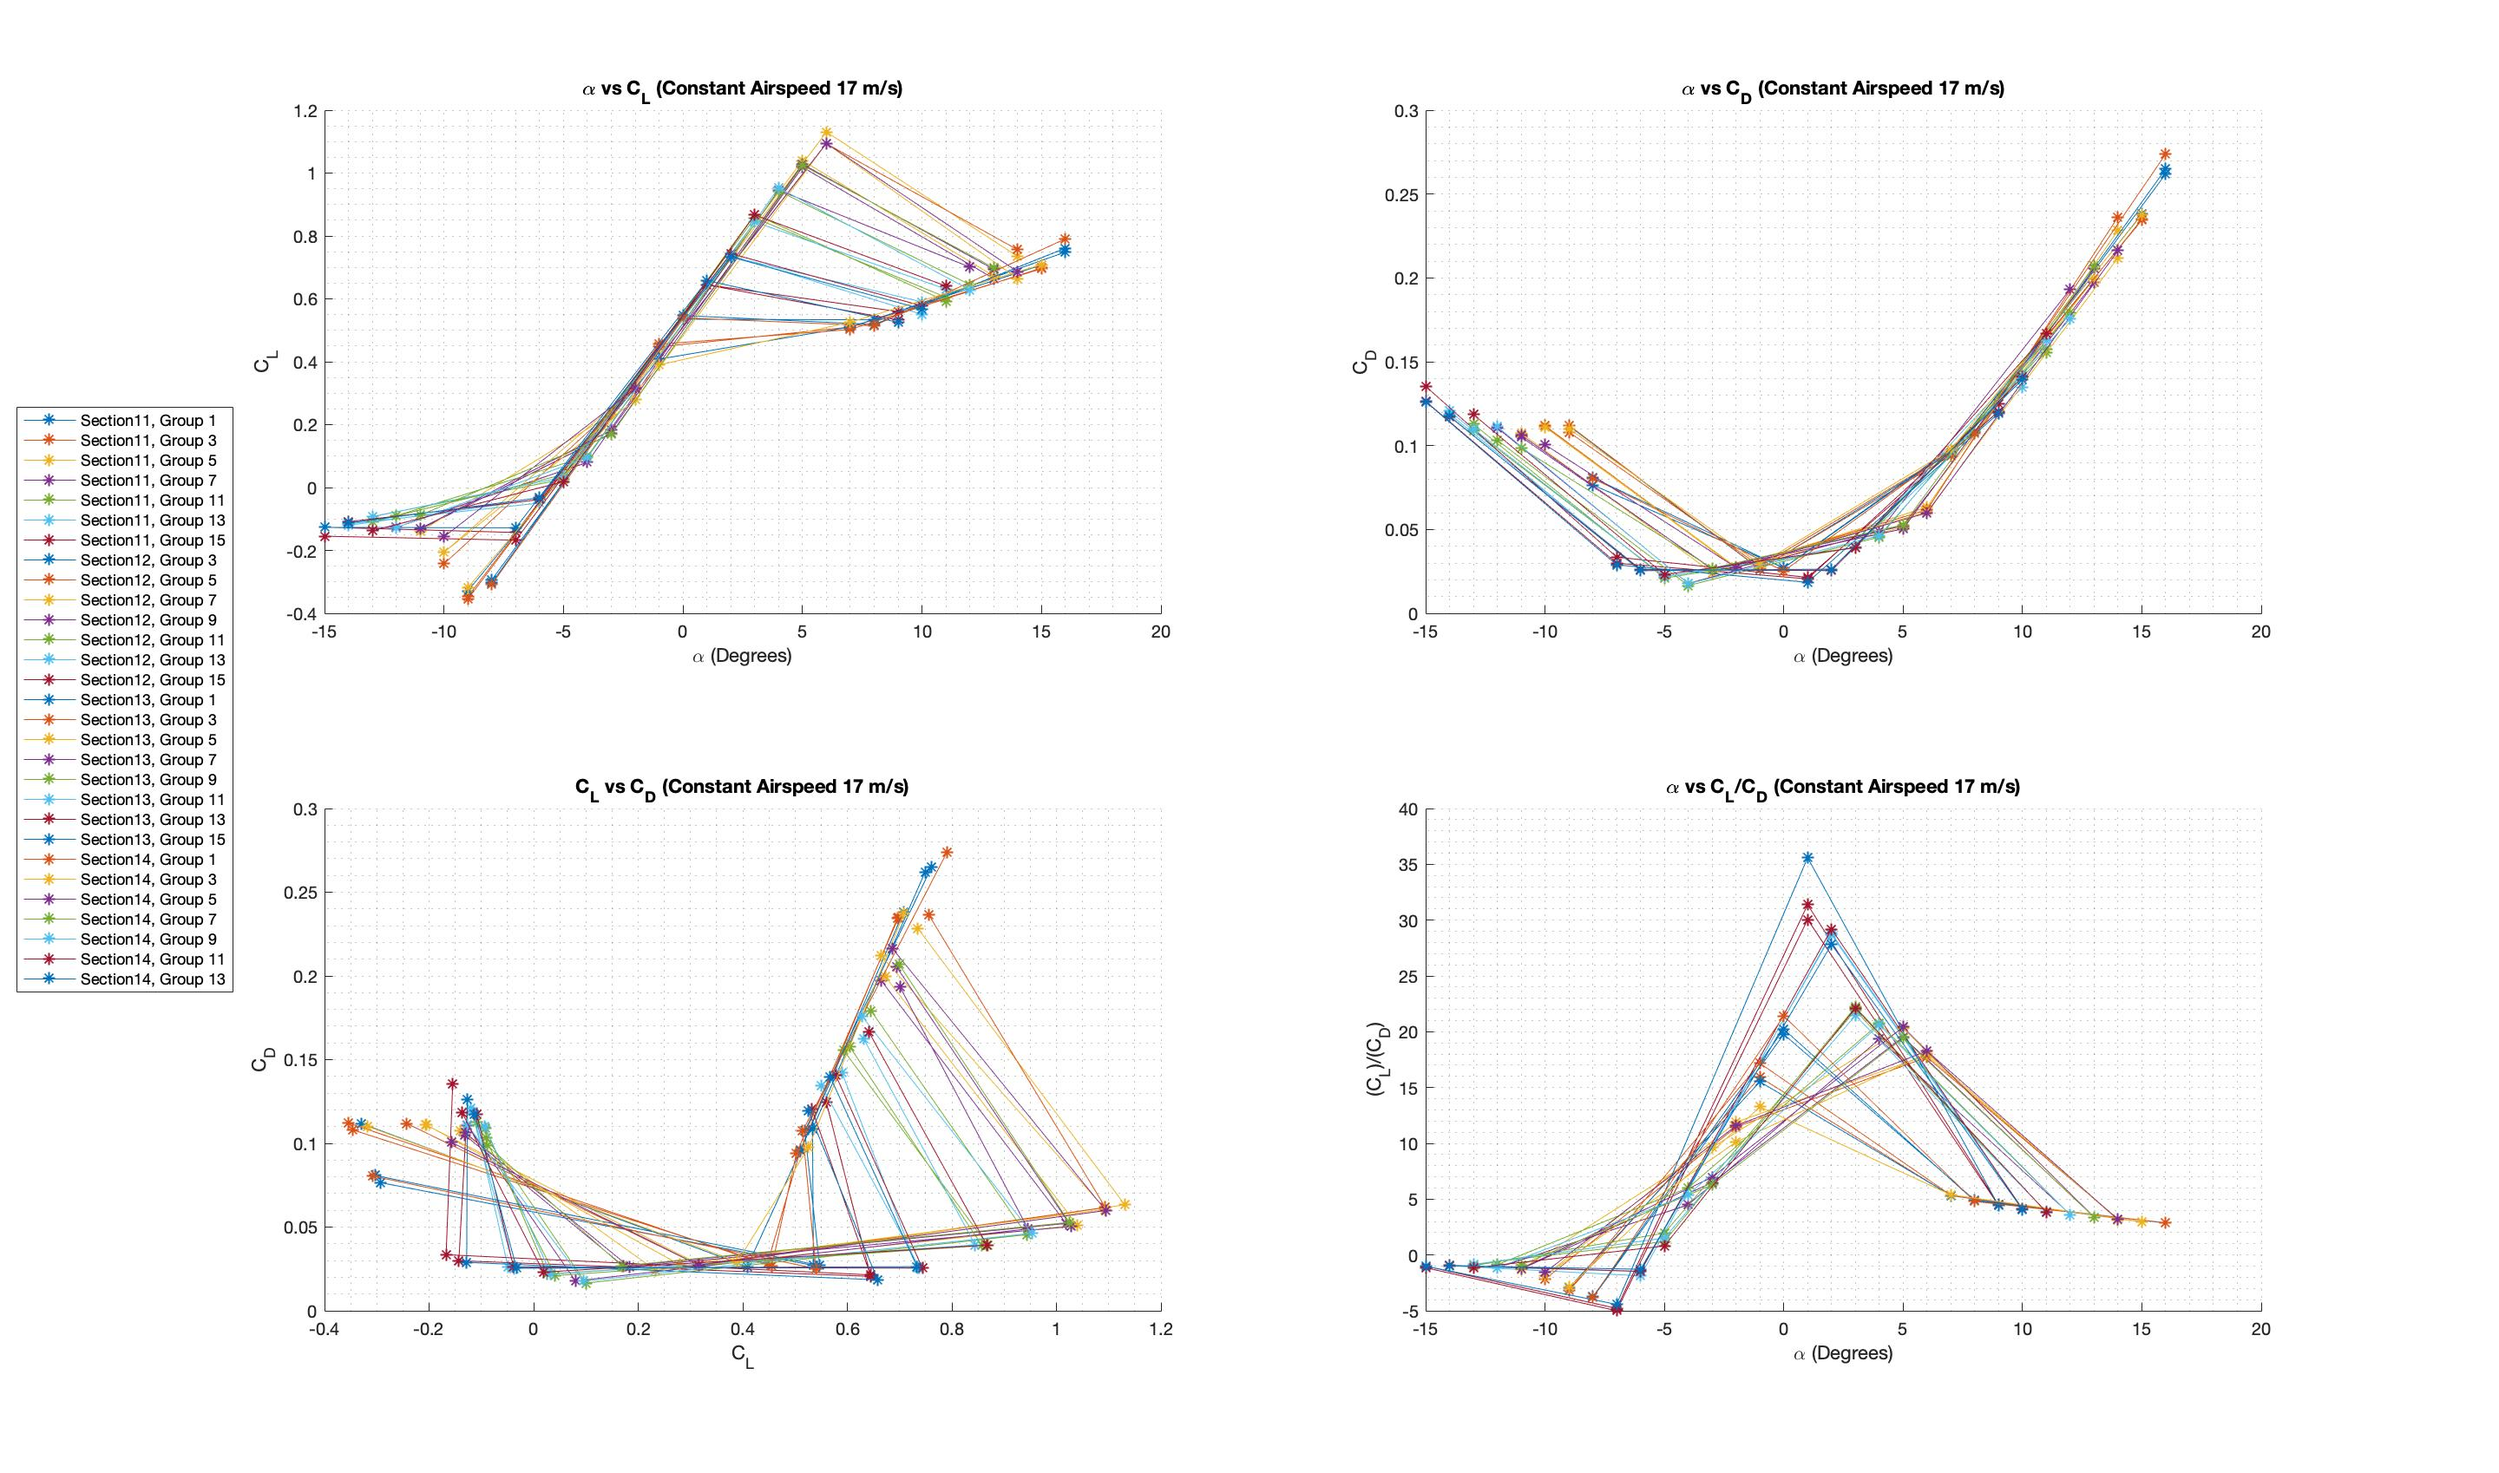
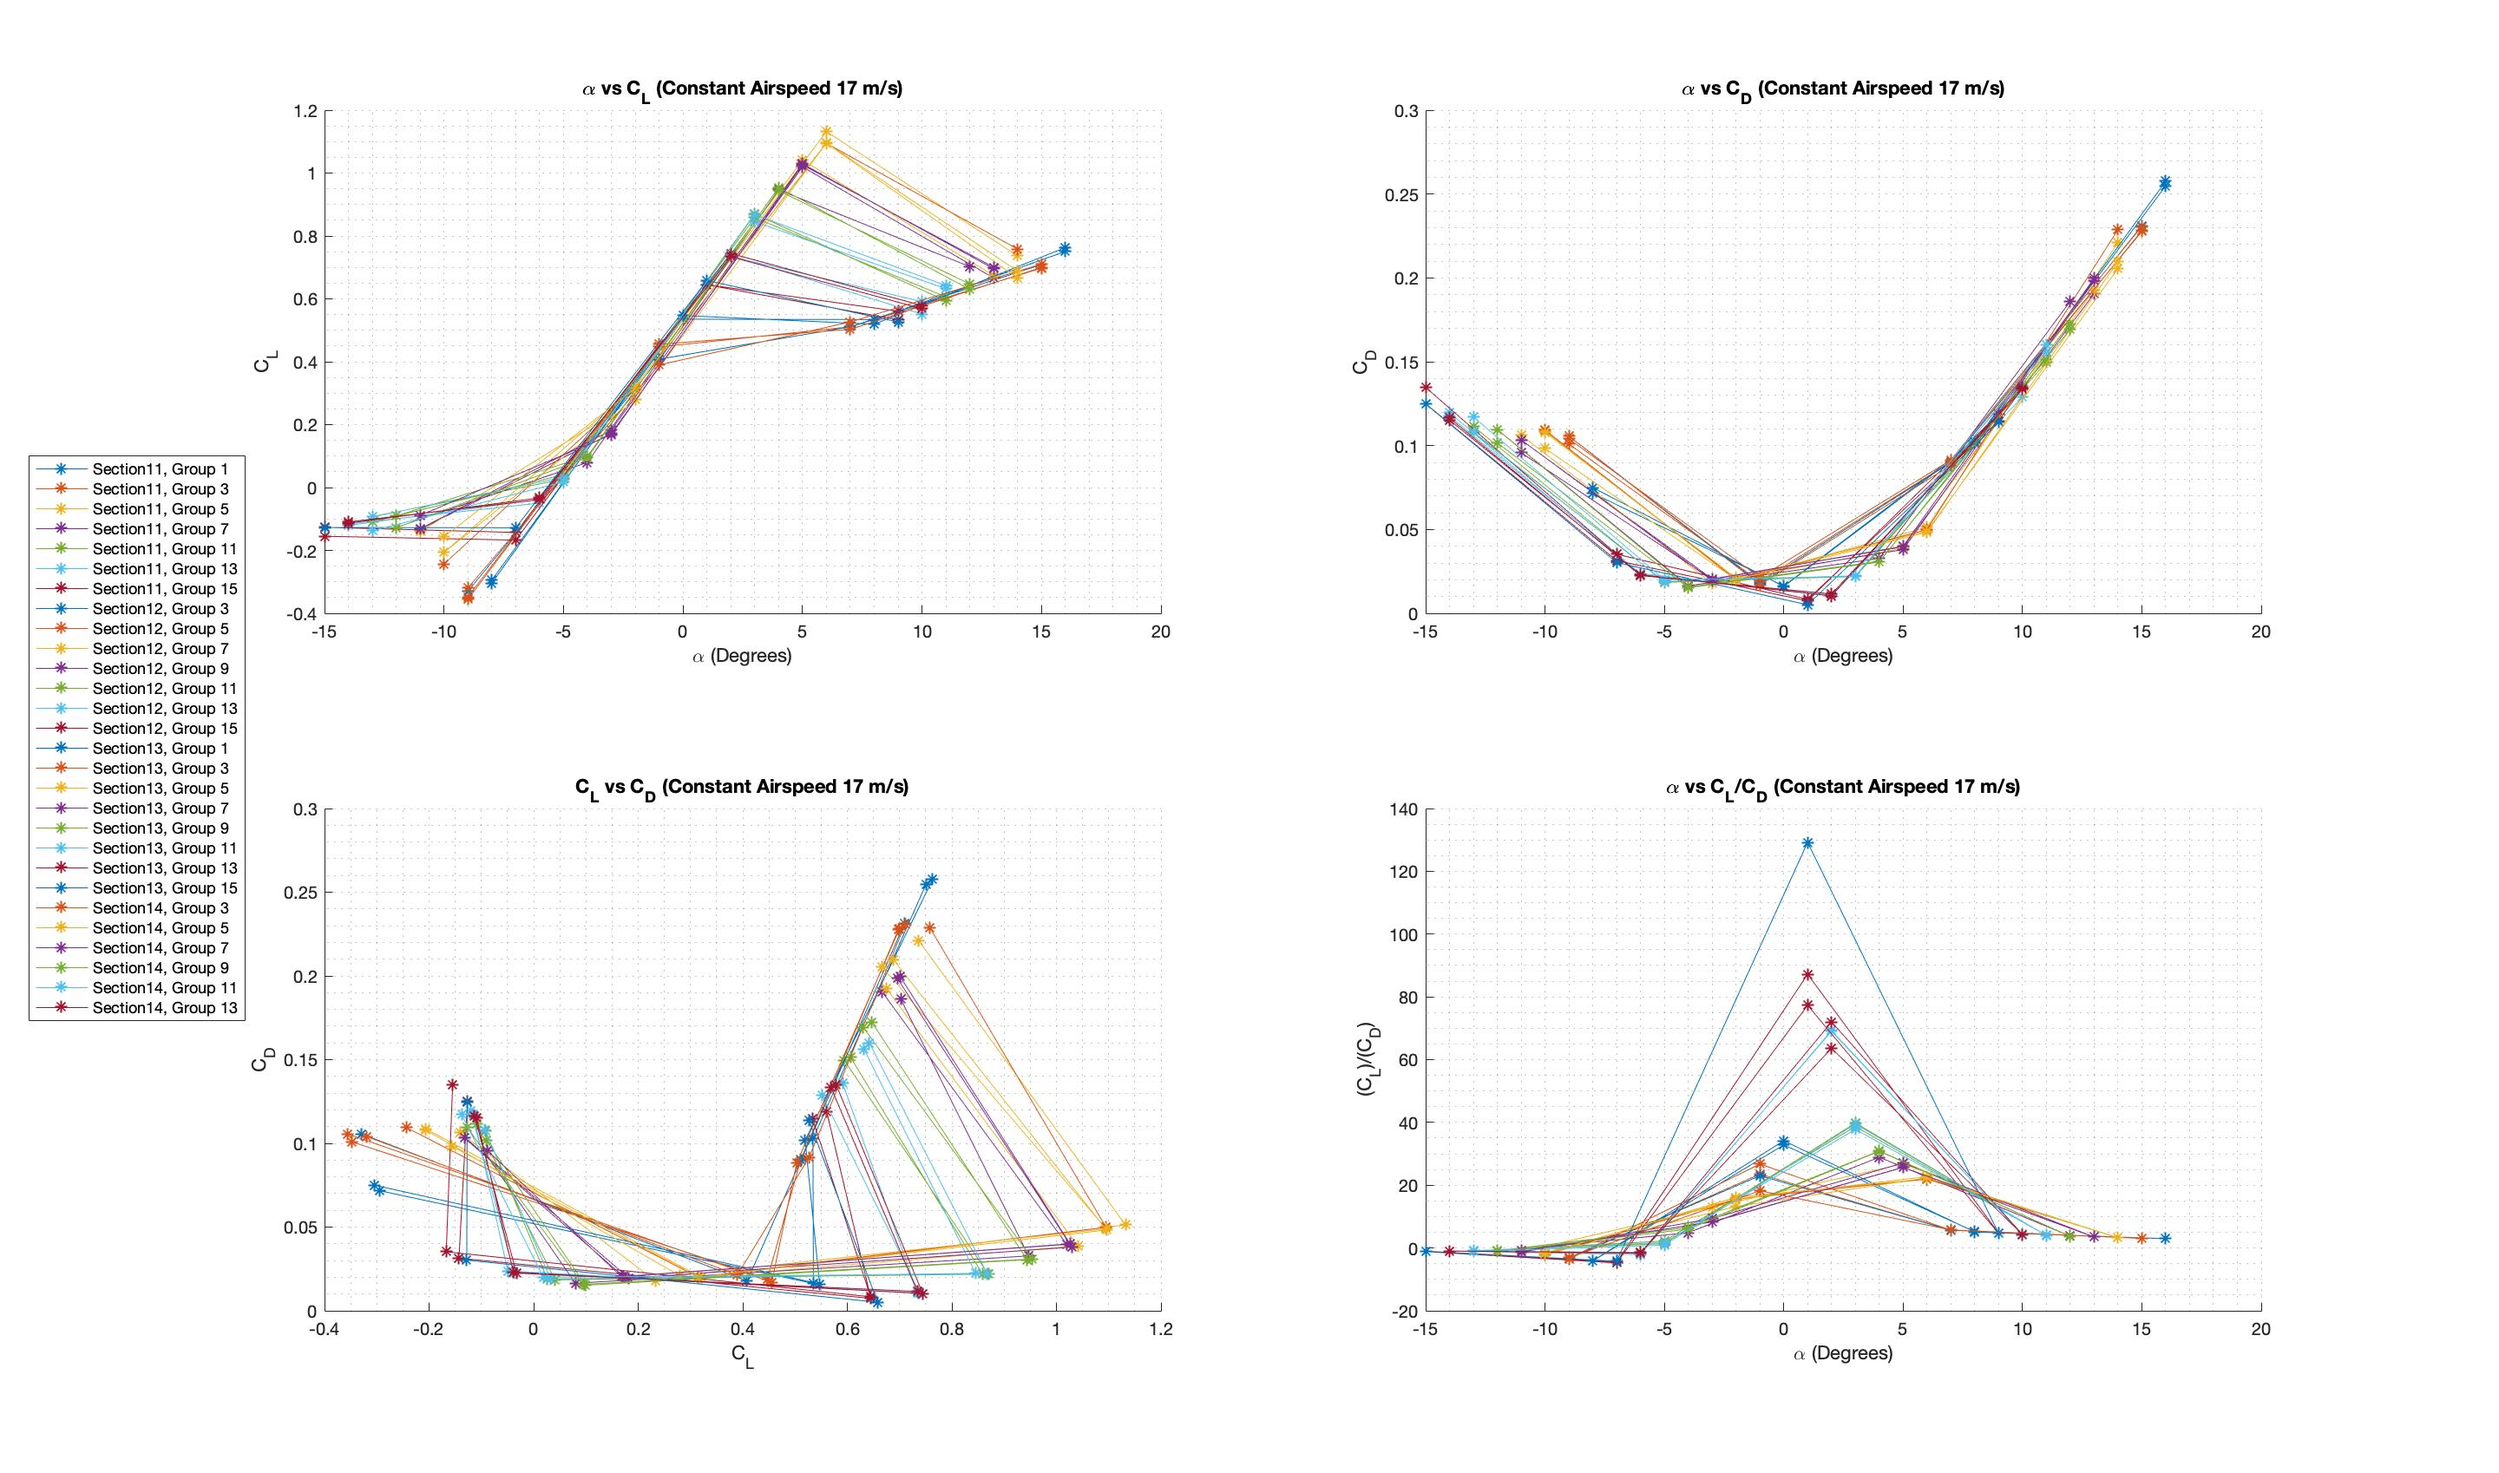
Added plots

diff --git a/Lab 4 Wind Tunnel 2/WindTunnel.m b/Lab 4 Wind Tunnel 2/WindTunnel.m
@@ -30,7 +30,7 @@ close all;
 
 %% Read Data:
 
-Section = 11;
+Section = 13;
 Group = 15;
 
 
@@ -477,7 +477,7 @@ scatter(Alpha_V(1,:),(Cl./Cd))
 grid minor
 title(['\alpha Vs L/D']);
 
-a = 1;
+
 %% error analysis: Cp: Not needed.
 
 % uncertainties values are the same like the previous lab, check lab report

diff --git a/Lab 4 Wind Tunnel 2/Compare.m b/Lab 4 Wind Tunnel 2/Compare.m
@@ -159,7 +159,7 @@ Ptrail_LowerPorts(i) = Slope*(LocationTrail) + Intercept;
 
 end
 
-PTrail = mean( [ Ptrail_LowerPorts ; Ptrail_LowerPorts ] );
+PTrail = mean( [ Ptrail_LowerPorts ; Ptrail_UpperPorts ] );
 
 
 %get mean data for all ports for all angel of attacks all speeds, each

diff --git a/Lab 4 Wind Tunnel 2/CompareScript.m b/Lab 4 Wind Tunnel 2/CompareScript.m
@@ -208,6 +208,7 @@ for j=11:14
         title(['\alpha vs C_L/C_D (Constant Airspeed 34 m/s)']);
     end
 end
+ylim([ -50 100])
 xlabel('\alpha (Degrees)')
 ylabel('(C_L)/(C_D)')
 grid minor
